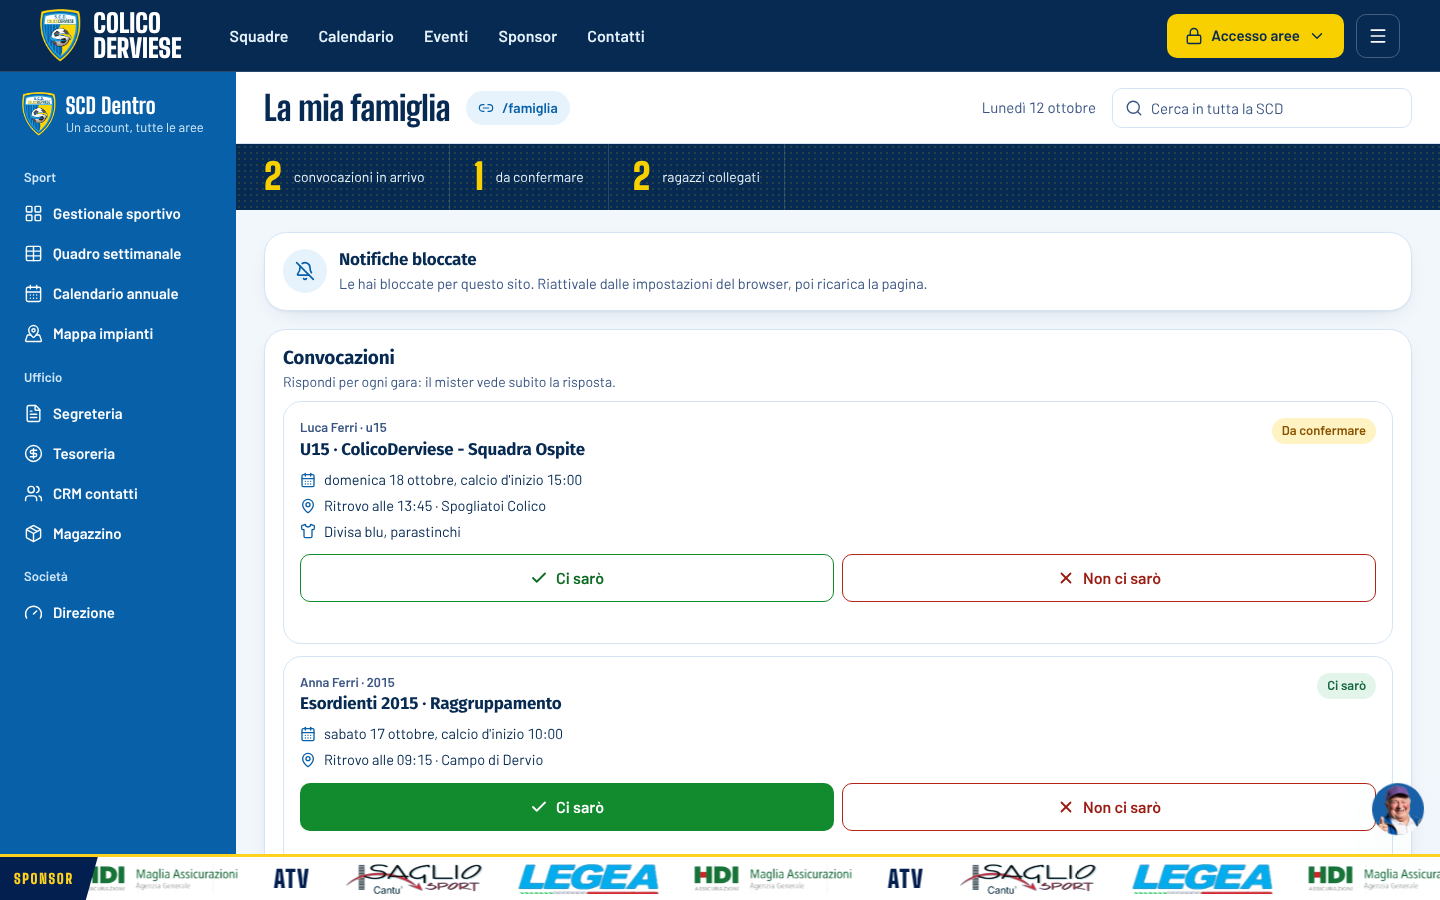
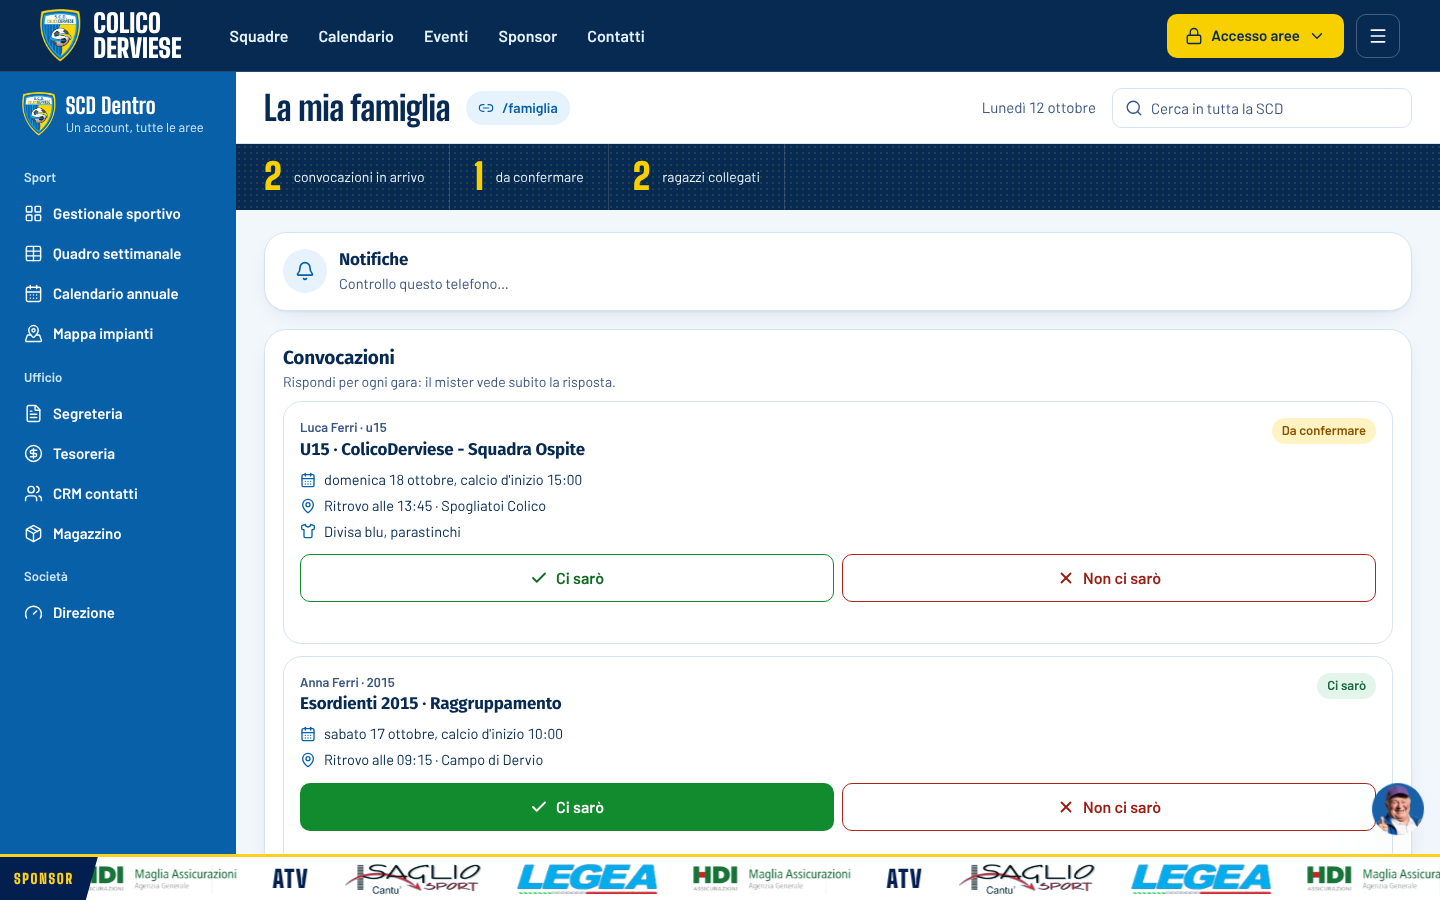
chore(legal): authorship credit and licence — footer, privacy credits, meta, manifest, LICENSE/NOTICE (UD-072)
Claude-Session: https://claude.ai/code/session_01F7ZxRX6eHwYdq5qwkLxrYH

diff --git a/apps/superapp/src/routes/privacy.tsx b/apps/superapp/src/routes/privacy.tsx
@@ -90,6 +90,10 @@ function Privacy() {
       <p>
         L'app usa solo strumenti tecnici: un cookie di sessione per tenerti dentro dopo l'accesso, la memoria del browser per ricordare le tue scelte e una copia offline delle sole pagine pubbliche. Non usiamo statistiche né cookie di marketing. Le aree riservate non vengono mai salvate offline e, quando esci, la copia sul telefono viene cancellata.
       </p>
+      <H2>Crediti e proprietà intellettuale</H2>
+      <p>
+        L'app è ideata e creata da <b>Francesco Coppola</b>, che ne detiene il diritto d'autore (© 2026) e la concede in uso gratuito alla {CLUB_PROFILE.name}. Stemma della società, loghi degli sponsor e marchi federali appartengono ai rispettivi titolari.
+      </p>
       <button type="button" onClick={openCookiePrefs} className="mt-3 inline-flex h-11 items-center rounded-[10px] border border-border px-4 text-[15px] font-semibold">
         Preferenze cookie
       </button>

diff --git a/apps/superapp/src/components/SiteChrome.tsx b/apps/superapp/src/components/SiteChrome.tsx
@@ -303,7 +303,10 @@ export function SiteFooter() {
           <button type="button" onClick={openCookiePrefs} className="text-sm underline opacity-80 hover:opacity-100">Preferenze cookie</button>
         </span>
         <p className="text-xs opacity-60">
-          © {new Date().getFullYear()} {CLUB_NAME} — Super App ufficiale · versione del {BUILD_STAMP}.
+          Super App ufficiale della {CLUB_NAME} · versione del {BUILD_STAMP}.
+        </p>
+        <p className="text-xs opacity-60">
+          © {new Date().getFullYear()} Francesco Coppola · ideato e creato da Francesco Coppola, concesso in uso gratuito alla {CLUB_NAME}. Stemma, loghi e marchi appartengono ai rispettivi titolari.
         </p>
       </div>
     </footer>

diff --git a/apps/superapp/src/routes/__root.tsx b/apps/superapp/src/routes/__root.tsx
@@ -89,7 +89,8 @@ export const Route = createRootRouteWithContext<{ queryClient: QueryClient }>()(
         content:
           "Super App ufficiale della S.C.D. ColicoDerviese: il club (ONE), l'area club (CORE) e sponsor & partner (GROW) in un'unica app.",
       },
-      { name: "author", content: "S.C.D. ColicoDerviese" },
+      { name: "author", content: "Francesco Coppola" },
+      { name: "copyright", content: "© 2026 Francesco Coppola · concesso in uso gratuito alla S.C.D. ColicoDerviese" },
       { name: "theme-color", content: "#062a52" },
       { property: "og:title", content: "S.C.D. ColicoDerviese — Super App" },
       {
